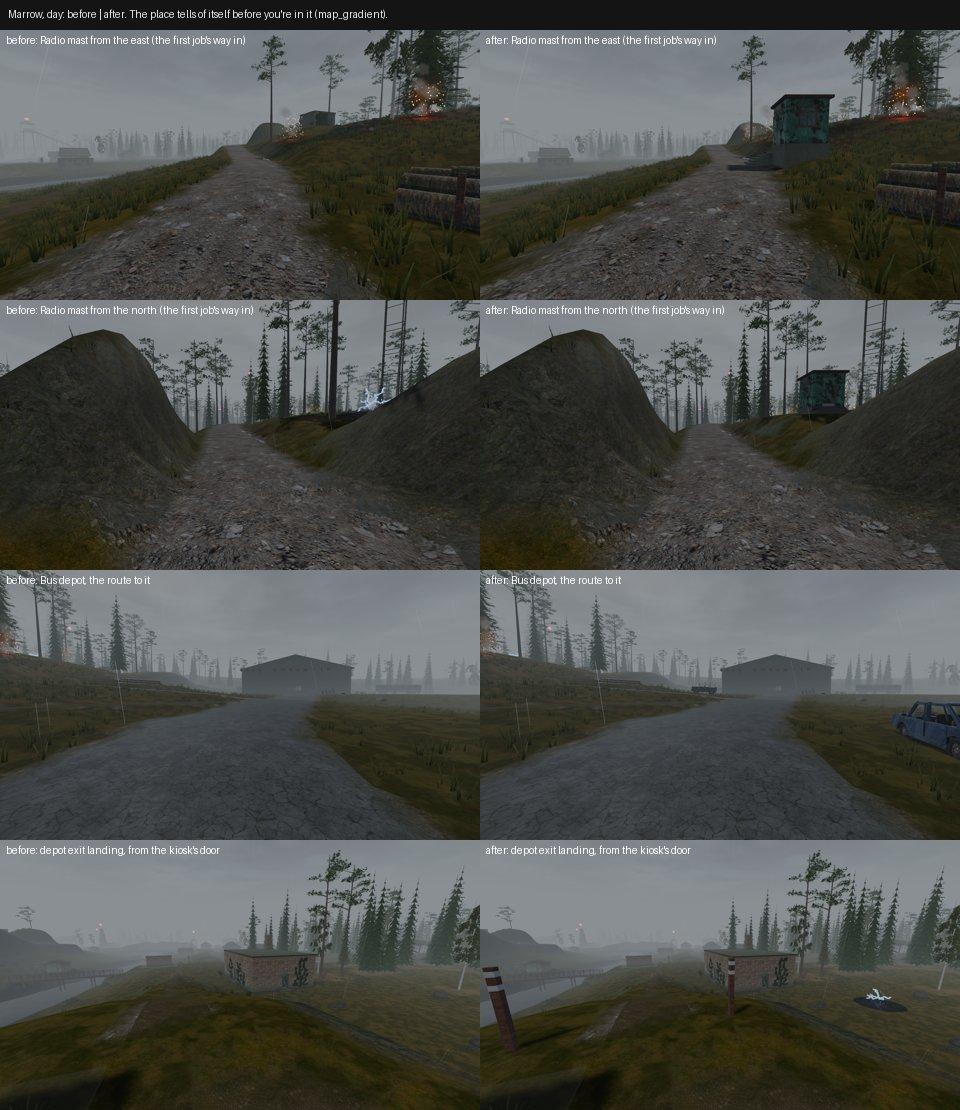
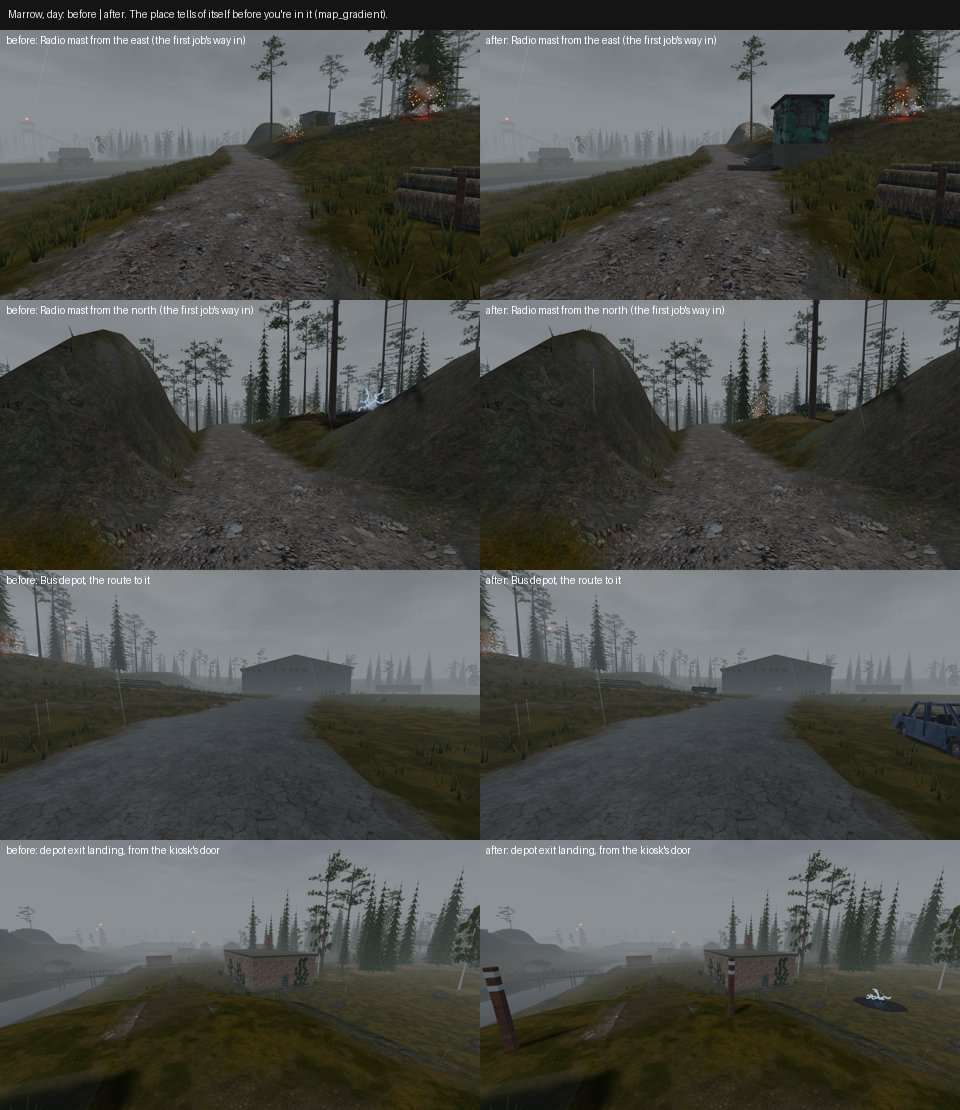
Docs: Marrow's gradient sheet with the Radio mast's north jeep
Claude-Session: https://claude.ai/code/session_01P1U9QbA5tmkphiBqxcZfkt

Changed region(s): [[0.7812, 0.2757, 0.9062, 0.3982], [0.7812, 0.4901, 0.8438, 0.5207]]

diff --git a/docs/craft/gradient/marrow_creek/README.md b/docs/craft/gradient/marrow_creek/README.md
@@ -13,8 +13,10 @@ only The Hollow announced itself. After:
 - **Pumping station** is cut down to the station and its yard. Its
   polygon had reached about 100 m out over the fields and the Forest
   path, a way home that was counted hot without being hot.
-- **Radio mast**, the mast_relay job's two ways in: a guard booth at each,
-  the relay compound's own.
+- **Radio mast**, the mast_relay job's two ways in: a guard booth on the
+  east way, and the relay's jeep just inside the compound on the north
+  one. A booth there stood on the slope, and its door step failed the
+  legged machines' footing test (feet_gauge).
 - **Bus depot** and **Rail yard**: a wrecked car by the way, short of the
   line.
 - **The depot exit's landing** (the coordinator's note): two marker posts
